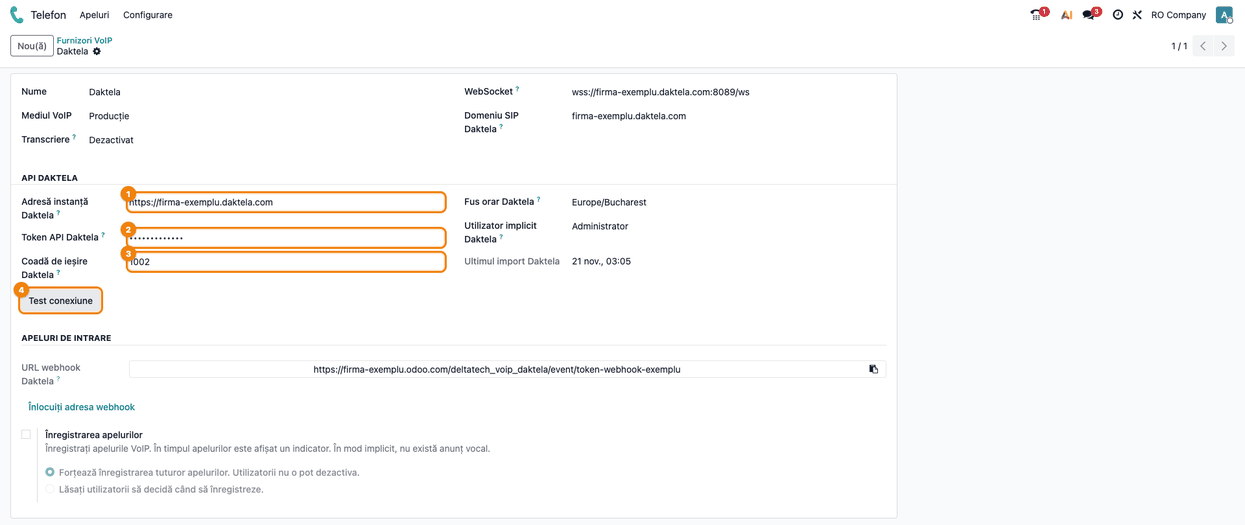
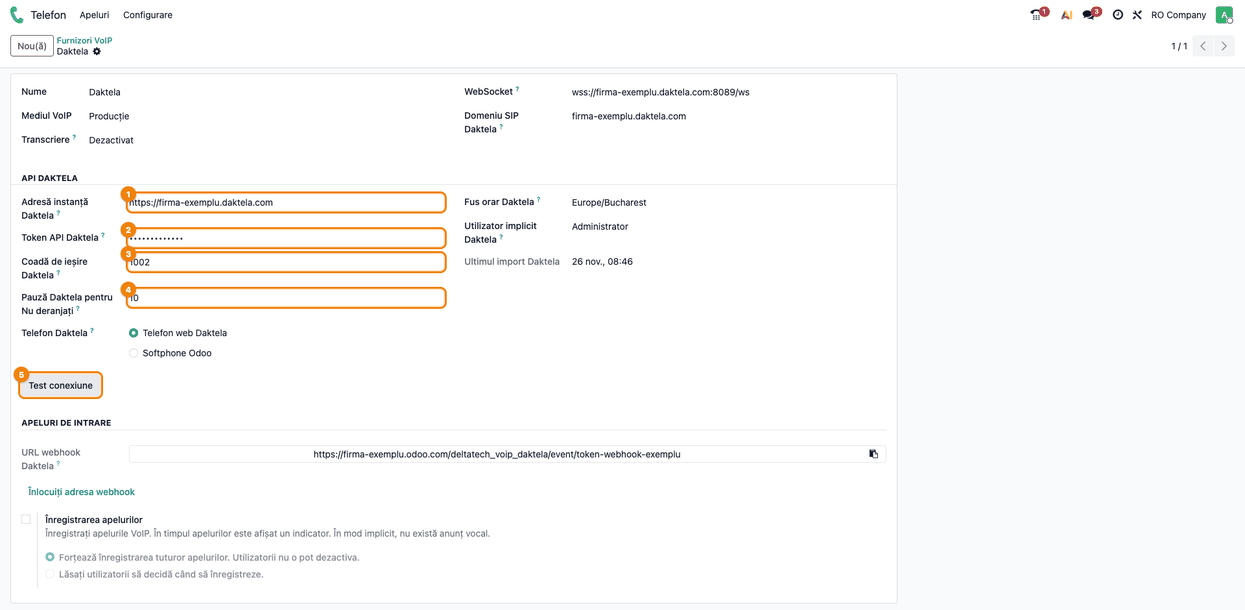
[UPD] wiki: deltatech_voip_daktela 19.0.1.10.0
Assisted-by: Claude Opus 5.5

diff --git a/deltatech_voip_daktela/index.md b/deltatech_voip_daktela/index.md
@@ -1,26 +1,31 @@
 # Phone - Daktela (localizat la `deltatech_voip_daktela/index.md`)
 
 - **Nume Tehnic:** `deltatech_voip_daktela`
-- **Versiune:** `19.0.1.9.0`
+- **Versiune:** `19.0.1.10.0`
 - **Cale:** https://github.com/terrabit-solutions/bitshop_ent/tree/19.0/deltatech_voip_daktela
 - **Cale Locală:** `odoo-addons/bitshop_ent/deltatech_voip_daktela`
-- **Ultima Ingestie:** `2026-11-19`
+- **Ultima Ingestie:** `2026-11-26`
 - **Fișă Consultant:** [FISA_CONSULTANT.md](FISA_CONSULTANT.md)
 
 #### 1. Sumar
 
-Modulul conectează aplicația Telefon (VoIP) din Odoo cu Daktela, centrul de contact în cloud. Utilizatorii pot apela orice număr de telefon din Odoo prin telefonul lor Daktela, iar apelurile încheiate în Daktela apar automat în istoricul de apeluri din Odoo, asociate contactului și utilizatorului potrivit.
+Modulul conectează aplicația Telefon (VoIP) din Odoo cu Daktela, centrul de contact în cloud. Utilizatorii pot apela orice număr de telefon din Odoo prin telefonul lor Daktela, văd apelul în widgetul Telefon (inclusiv apelurile primite și cele aflate în așteptare în coadă), iar apelurile încheiate în Daktela apar automat în istoricul de apeluri din Odoo, asociate contactului și utilizatorului potrivit. Funcția „Nu deranjați” din Odoo oprește și sunatul în Daktela.
 
 #### 2. Funcționalități Cheie
 
 - **Domeniu SIP Daktela:** câmpul PBX al furnizorului VoIP este denumit *Domeniu SIP Daktela*, în lista și în formularul furnizorului (*Telefon > Configurare > Furnizori*).
-- **Apel prin Daktela:** pentru utilizatorii legați de un agent Daktela, *Sună* de lângă orice număr de telefon sau mobil din Odoo (inclusiv contactele, activitățile și istoricul din Telefon) cere Daktela să apeleze numărul, în format internațional, de pe telefonul Daktela al utilizatorului. Apelul este inițiat de Daktela, iar softphone-ul Odoo nu mai este pornit pentru acești utilizatori (fără *Apel demo* sau erori SIP).
+- **Apel prin Daktela:** pentru utilizatorii legați de un agent Daktela, *Sună* de lângă orice număr de telefon sau mobil din Odoo (inclusiv tastatura Telefon, contactele, activitățile și istoricul) cere Daktela să apeleze numărul, în format internațional, de pe telefonul Daktela al utilizatorului. Apelul este inițiat de Daktela, iar partea SIP a softphone-ului Odoo nu este pornită pentru acești utilizatori.
+- **Telefon web Daktela sau softphone Odoo:** furnizorul alege cine transportă sunetul. Cu *Telefonul web Daktela* (implicit), apelurile merg prin API-ul Daktela. Cu *Softphone Odoo*, softphone-ul Telefon se înregistrează în Daktela ca dispozitiv WebRTC al agentului, cu datele SIP sincronizate din Daktela (butonul *Sincronizează telefoanele Daktela*), și funcționează ca la orice furnizor SIP. Această variantă nu este documentată oficial de Daktela.
+- **Apeluri primite în widget:** cu webhook-ul Daktela configurat (adresă cu token secret, generată pe furnizor și setată în Daktela), un apel primit sună în widgetul Telefon cu contactul găsit după număr, cu *Acceptă* și *Respinge*, fără sonerie Odoo. Un apel preluat în telefonul Daktela apare ca „în convorbire”, iar unul nepreluat apare imediat ca *Apel ratat* în istoric.
+- **Apeluri Daktela în widget:** widgetul arată apelul cu cartea de vizită a contactului: *Apel ieșit* până răspunde cealaltă parte, apoi *În convorbire* cu cronometru, citit din Daktela la 2 secunde cât durează apelul. Butonul roșu închide apelul în Daktela, iar un apel închis în Daktela se închide singur și în widget. Transferul, reținerea, înregistrarea, mut și tastatura sunt dezactivate pe durata unui apel Daktela. Butonul *Deschide telefonul Daktela* (căști) din antet deschide telefonul web Daktela.
+- **„Nu deranjați” oprește și Daktela (nou în 19.0.1.10.0):** pentru agenții Daktela, *Nu deranjați* din widgetul Telefon (pe o durată sau până la reactivare) pune agentul pe pauza Daktela configurată pe furnizor (*Pauză Daktela pentru Nu deranjați*, câmpul `daktela_dnd_pause`) sau pe *Nepregătit*; Daktela nu mai sună agentul, iar apelanții așteaptă în coadă. *Disponibil* sau expirarea duratei readuce agentul. Expirarea este verificată de un cron la un minut.
+- **Fila „În așteptare” (nou în 19.0.1.10.0):** listează apelurile care așteaptă în cozile Daktela, cu contactul găsit după număr, coada și timpul de așteptare; *Acceptă* dă apelul agentului.
 - **Indicații pentru operator:** când Daktela refuză apelul (telefon neconectat, operator care nu e pregătit), Odoo spune ce trebuie făcut (deschide clientul WebRTC, pornește aplicația SIP, intră în coada de ieșire, setează starea *Gata*), urmat de motivul dat de Daktela.
-- **Istoric de apeluri:** la fiecare 10 minute, apelurile încheiate în Daktela sunt importate în istoricul Telefon, o singură dată fiecare, la ora reală a apelului, cu direcție, stare, durată, contact (potrivit după număr) și utilizator (potrivit după agentul Daktela). Apelurile interne sunt omise. Cele primite și nepreluate apar ca *Apel ratat*, cele ieșite și nepreluate ca *Apel anulat*.
-- **Conexiune API per furnizor:** grupul *API Daktela* din formularul furnizorului conține adresa instanței, tokenul API, fusul orar al orelor apelurilor (implicit Europe/Bucharest), coada de ieșire opțională și utilizatorul implicit; este vizibil doar administratorilor. Butonul *Testează conexiunea* verifică tokenul și arată utilizatorul Daktela al acestuia.
+- **Istoric de apeluri:** la fiecare 10 minute, apelurile încheiate în Daktela sunt importate în istoricul Telefon, o singură dată fiecare, cu direcție, stare (răspuns, ratat, nepreluat), durată, contact (potrivit după număr) și utilizator (potrivit după agentul Daktela). Apelurile interne sunt omise. Apelul inițiat din Odoo apare imediat în istoric, iar importul îl completează cu orele Daktela.
+- **Conexiune API per furnizor:** grupul *API Daktela* din formularul furnizorului conține adresa instanței, tokenul API, fusul orar al orelor apelurilor (implicit Europe/Bucharest), coada de ieșire opțională, pauza pentru *Nu deranjați* și utilizatorul implicit; este vizibil doar administratorilor. Butonul *Testează conexiunea* verifică tokenul.
 - **Apeluri fără agent:** Telefon arată fiecare utilizator doar apelurile proprii, de aceea apelurile importate fără agent cunoscut (ex. apeluri ratate din coadă) sunt atribuite utilizatorului implicit.
-- **Furnizor implicit:** după configurarea furnizorului Daktela, acesta devine furnizorul implicit al utilizatorilor noi și al celor fără furnizor, deci Telefon nu mai rulează în *Mod demo*; un utilizator fără agent Daktela care sună primește mesajul să fie legat de un agent.
-- **Setări Daktela per utilizator** (tabul VoIP): *Agent Daktela* (numele unic din Daktela, setat doar de administrator, legat de cel mult un utilizator); *Dispozitiv Daktela* opțional (dispozitiv SIP sau număr extern, cu tipul său), pe care Odoo conectează agentul, în coada de ieșire și în starea *Gata* înainte de fiecare apel; *Coadă de ieșire Daktela* opțională, pentru agenții care sună printr-o altă coadă decât cea a furnizorului; *Utilizator autentificare Daktela*, editabil de utilizator în preferințe, folosit de softphone în locul numelui SIP când Daktela oferă unul separat.
+- **Furnizor implicit:** după configurarea furnizorului Daktela, acesta devine furnizorul implicit al utilizatorilor noi și al celor fără furnizor, deci Telefon nu mai rulează în *Mod demo*.
+- **Setări Daktela per utilizator** (tabul VoIP): *Agent Daktela* (numele unic din Daktela, setat doar de administrator, legat de cel mult un utilizator); *Dispozitiv Daktela* opțional (dispozitiv SIP sau număr extern, cu tipul său), pe care Odoo conectează agentul, în coada de ieșire și în starea *Gata* înainte de fiecare apel; *Coadă de ieșire Daktela* opțională; *Utilizator autentificare Daktela*, editabil de utilizator în preferințe, folosit de softphone în locul numelui SIP când Daktela oferă unul separat.
 - Fluxul de configurare pas cu pas, cu capturi, este în fișa consultantului.
 
 #### 3. Dependențe
@@ -31,21 +36,24 @@ Modulul conectează aplicația Telefon (VoIP) din Odoo cu Daktela, centrul de co
 
 **Modele**
 
-- `voip.provider` (extins): câmpurile API Daktela, cererile către API, testul conexiunii, autentificarea agentului și importul apelurilor (`_cron_daktela_import_calls`).
+- `voip.provider` (extins): câmpurile API Daktela (`daktela_url`, `daktela_api_token`, `daktela_phone`, `daktela_dnd_pause`, token și adresă webhook), cererile către API, testul conexiunii, sincronizarea telefoanelor, apelurile în așteptare și importul apelurilor (`_cron_daktela_import_calls`).
 - `voip.call` (extins): `daktela_click_to_call`, crearea apelurilor din datele Daktela (câmpul `daktela_id`), potrivirea agentului și a contactului.
-- `res.users` / `res.users.settings` (extinse): agentul, dispozitivul, coada și utilizatorul de autentificare Daktela; furnizor implicit.
+- `res.users` / `res.users.settings` (extinse): agentul, dispozitivul, coada și utilizatorul de autentificare Daktela; furnizor implicit; `daktela_dnd_paused` și logica pauzei la schimbarea *Nu deranjați* (`_cron_daktela_end_dnd`).
 
 **Vizualizări**
 
 - `voip_provider_tree_view_inherit_daktela`: coloana *Domeniu SIP Daktela* în lista furnizorilor.
-- `voip_provider_view_form_inherit_daktela`: grupul *API Daktela* și butonul de test în formularul furnizorului.
+- `voip_provider_view_form_inherit_daktela`: grupul *API Daktela*, webhook-ul și butoanele de test/sincronizare în formularul furnizorului.
 - `daktela_res_user_form`, `daktela_res_users_view_form_preferences`: câmpurile Daktela în tabul VoIP al utilizatorului și în preferințe (doar *Utilizator autentificare* editabil).
-- Patch-uri JS (`daktela_click_to_call.esm.js`, `voip_service_patch.esm.js`) peste serviciile `Voip` și `UserAgent` din Telefon, care redirecționează apelul prin Daktela.
+- Patch-uri JS (`daktela_click_to_call.esm.js`, `daktela_go_ready.esm.js`, `daktela_waiting.esm.js`, `voip_service_patch.esm.js`) și șabloane (`softphone.xml`, `daktela_waiting.xml`) peste widgetul Telefon: apel prin Daktela, starea apelului, fila *În așteptare*.
+- Controller `DaktelaWebhook` (`controllers/main.py`): primește evenimentele de apel de la Daktela.
 
 **Acțiuni Automate / Acțiuni Server**
 
 - `ir_cron_daktela_import_calls`: la fiecare 10 minute importă apelurile încheiate din Daktela în istoricul Telefon.
+- `ir_cron_daktela_end_dnd`: la fiecare minut încheie pauza Daktela a agenților al căror *Nu deranjați* a expirat.
 
 #### 5. Conexiuni
 
 - `voip`: aplicația Telefon (Enterprise) ale cărei furnizori, apeluri și softphone sunt extinse (dependență directă).
+- [deltatech_voip_missed_call](../deltatech_voip_missed_call/index.md): complementar, fără dependență în cod; apelurile primite și nepreluate importate din Daktela apar ca *Apel ratat* în istoricul Telefon, de unde lista de apeluri de sunat înapoi le poate prelua.

diff --git a/deltatech_voip_daktela/FISA_CONSULTANT.md b/deltatech_voip_daktela/FISA_CONSULTANT.md
@@ -53,7 +53,7 @@ Mergeți la **Telefon → Configurare → Furnizori**. Lista **Furnizori VoIP** 
 
 Deschideți furnizorul Daktela. Sus sunt **WebSocket** și **Domeniu SIP Daktela**, pentru softphone. Dedesubt, grupul **API Daktela** are adresa instanței, tokenul (ascuns), coada de ieșire, butonul **Test conexiune**, fusul orar, utilizatorul implicit și data ultimului import. Grupul îl văd doar administratorii.
 
-**Fus orar Daktela** este fusul instanței Daktela (implicit Europe/Bucharest): Daktela trimite orele apelurilor în acest fus, fără decalaj. **Coadă de ieșire Daktela** este opțională: numele cozii de apeluri ieșiri din Daktela (de exemplu 1002), în care agentul trebuie să fie logat.
+**Fus orar Daktela** este fusul instanței Daktela (implicit Europe/Bucharest): Daktela trimite orele apelurilor în acest fus, fără decalaj. **Pauză Daktela pentru Nu deranjați** este numele unic al pauzei Daktela (de exemplu 10) pe care e pus agentul când alege **Nu deranjați** în widget (pasul 9); gol, agentul e trecut pe Indisponibil. **Coadă de ieșire Daktela** este opțională: numele cozii de apeluri ieșiri din Daktela (de exemplu 1002), în care agentul trebuie să fie logat.
 
 După ce ați completat adresa și tokenul și ați salvat, apăsați **Test conexiune**. Butonul apare doar când adresa și tokenul sunt completate. Dacă tokenul e bun, apare mesajul „Conectat la Daktela ca …” cu numele utilizatorului Daktela al tokenului; altfel apare o eroare (vezi secțiunea 9).
 
@@ -110,6 +110,18 @@ Mergeți la **Telefon → Apeluri**. Un apel pornit din Odoo apare aici imediat,
 
 ![Lista Apeluri din aplicația Telefon cu trei apeluri importate din Daktela: un apel ieșit către Client Exemplu SRL de 3 minute și 5 secunde cu starea Apeluri efectuate, un apel intrat ratat de la +40731222333 atribuit utilizatorului implicit și un apel ieșit anulat](screenshots/08_istoric_apeluri.png)
 
+### Pasul 9 — Opriți soneria cu Nu deranjați
+
+În antetul widgetului **Telefon**, comutatorul standard **Disponibil / Nu deranjați** lucrează și în Daktela pentru agenții Daktela. **Nu deranjați** (15 minute, o oră, 3 ore, 8 ore, 24 de ore sau **Până când îl pornesc din nou**) oprește soneria Odoo, ca în standard, și pune agentul pe pauza din **Pauză Daktela pentru Nu deranjați** de pe furnizor (fără pauză completată: îl trece pe Indisponibil). Daktela nu mai sună agentul cu apelurile din coadă; clienții așteaptă în coadă și apar în fila **În așteptare**. **Disponibil** încheie pauza (sau îl trece înapoi pe Ready); la expirarea duratei alese, Odoo încheie singur pauza, în cel mult un minut. Odoo anulează doar ce a făcut el: un agent aflat deja pe o pauză proprie în Daktela rămâne pe ea. Dacă Daktela refuză schimbarea, **Nu deranjați** se păstrează în Odoo și utilizatorul primește un avertisment cu motivul dat de Daktela.
+
+![Widgetul Telefon cu butonul Disponibil marcat și meniul deschis: Disponibil și Nu deranjați, cu nota Apelurile primite vor fi mutate; jos, filele widgetului, între care noua filă În așteptare](screenshots/09_widget_nu_deranjati.png)
+
+### Pasul 10 — Preluați manual un apel din așteptare
+
+Deschideți fila **În așteptare** a widgetului. Lista arată apelurile care așteaptă în toate cozile Daktela ale instanței (nu doar în cozile agentului), cel mai vechi primul: contactul găsit după număr (sau numărul), numărul, coada și timpul de așteptare; se actualizează la fiecare 10 secunde cât timp fila e deschisă. **Preia** dă apelul agentului în Daktela: apelul sună în telefonul agentului (softphone-ul Odoo sau telefonul web Daktela) și se răspunde ca orice apel primit. Dacă între timp apelul a fost preluat de altcineva sau clientul a închis, apare mesajul „Acest apel nu mai e în așteptare.” Pentru a prelua apeluri care nu i-au fost oferite, agentul are nevoie în Daktela de dreptul de coadă **Call pickup** pe coada apelului; fără el, Daktela refuză preluarea și Odoo afișează motivul. Preluarea funcționează și pe **Nu deranjați**.
+
+![Fila În așteptare a widgetului Telefon cu două apeluri în coada Vânzări: Client Exemplu SRL (+40721000111) și numărul +40744999888, fiecare cu timpul de așteptare și butonul verde Preia, primul marcat](screenshots/10_widget_in_asteptare.png)
+
 ### Note de monografie și raportare
 
 Modulul nu generează note contabile. Istoricul apelurilor se poate filtra și grupa în **Telefon → Apeluri** (după utilizator, stare, direcție) și se poate vedea și în calendar, grafic sau pivot.
@@ -153,6 +165,10 @@ Modulul nu generează note contabile. Istoricul apelurilor se poate filtra și g
 - [ ] Un apel intrat pierdut, fără agent, apare la utilizatorul implicit.
 - [ ] Pe furnizor, **Ultimul import Daktela** se actualizează după import. Dacă apelurile nu apar și data nu se schimbă, importul a eșuat; cauza (token, adresă) e în logul serverului.
 - [ ] Un apel intern între agenți nu apare în istoric.
+- [ ] **Nu deranjați** pune agentul în Daktela pe pauza din **Pauză Daktela pentru Nu deranjați** (sau pe Indisponibil, fără pauză pe furnizor); **Disponibil** îl readuce pe Ready.
+- [ ] Un **Nu deranjați** de 15 minute încheie singur pauza Daktela după expirare (cron la un minut).
+- [ ] Pe **Nu deranjați**, apelurile din coadă nu mai sună la agent și apar în fila **În așteptare**.
+- [ ] **Preia** pe un apel din **În așteptare** sună în telefonul agentului; un apel preluat între timp de altcineva dă „Acest apel nu mai e în așteptare.”
 
 ## 9. Mesaje de eroare frecvente
 
@@ -177,6 +193,8 @@ Modulul nu generează note contabile. Istoricul apelurilor se poate filtra și g
 | Acest apel Daktela aparține altui agent. | Activitatea Daktela a apelului nu e a agentului utilizatorului (de exemplu **Agent Daktela** greșit pe utilizator) | Verificați **Agent Daktela** pe utilizator; un agent nu poate urmări sau închide apelurile altui agent |
 | Acest apel aparține altui utilizator. | Un utilizator încearcă să urmărească sau să închidă apelul altui utilizator | Fiecare agent își închide propriile apeluri, din widgetul lui |
 | Forbidden (HTTP 403, în jurnalul de evenimente Daktela) | Daktela trimite evenimentele la o adresă webhook cu token greșit sau înlocuit (adresa veche, după **Înlocuiți adresa webhook**); apelurile de intrare nu mai apar în widget | Copiați **URL webhook Daktela** de pe furnizor și setați-l din nou în Daktela la **Manage → Settings → Events** |
+| Acest apel nu mai e în așteptare. | Alt agent a preluat apelul sau clientul a închis între timp | Lista se actualizează singură; alegeți alt apel |
+| Avertisment Daktela la Nu deranjați (motivul Daktela) | Daktela a refuzat pauza (pauză inexistentă în **Pauză Daktela pentru Nu deranjați**, agent într-un apel) | Verificați numele pauzei pe furnizor; Nu deranjați rămâne activ în Odoo, dar Daktela continuă să sune |
 | Daktela nu a răspuns cu JSON. | Adresa duce la o pagină care nu e API-ul Daktela (proxy, mentenanță, adresă greșită) | Verificați **Adresă instanță Daktela**; importul celorlalți furnizori continuă |
 
 ## 10. Capturi de ecran
@@ -195,6 +213,8 @@ Capturile sunt generate automat din `tests/test_screenshots.py` (mixinul `Screen
 - `06_widget_apel_incheiat.png`: widgetul Telefon după închiderea apelului, cu rezumatul.
 - `07_widget_apel_intrare.png`: widgetul Telefon cu un apel primit: Apel primit, fișa contactului și butoanele Respinge și Acceptă.
 - `08_istoric_apeluri.png`: lista Apeluri, cu apelurile importate din Daktela.
+- `09_widget_nu_deranjati.png`: meniul Disponibil / Nu deranjați al widgetului (pasul 9).
+- `10_widget_in_asteptare.png`: fila În așteptare, cu apelurile din coadă și butonul Preia (pasul 10).
 
 Capturile widgetului se fac cu răspunsurile Daktela simulate în test (apel pornit, apoi răspuns), fără un apel real.
 

diff --git a/log.md b/log.md
@@ -4,6 +4,18 @@ This is an append-only log of all operations performed on the wiki.
 
 ---
 
+## [2026-11-26] `deltatech_voip_daktela` — reingestie 19.0.1.9.0 → 19.0.1.10.0
+
+- **Acțiune:** Pagina regenerată din ramura `19.0-imp-voip-daktela-pause` (terrabit-solutions/bitshop_ent#783, în
+  review): „Nu deranjați” din widgetul Telefon pune agentul pe pauza Daktela de pe furnizor (`daktela_dnd_pause`, cron
+  la un minut pentru expirare), fila „În așteptare” cu preluarea apelurilor din coadă. Completate și funcțiile deja
+  existente lipsă din pagina veche (telefon web Daktela / softphone Odoo, webhook pentru apeluri primite, apelurile în
+  widget). Fișa consultant recopiată cu 10 capturi (noi: 09, 10; 02 regenerată); șterse capturile vechi nereferite.
+- **Sursă:** `readme/DESCRIPTION.md`, `readme/USAGE.md`, `readme/FISA_CONSULTANT.md`, `__manifest__.py`, verificare în cod.
+- **Dependențe/Conexiuni:** `voip` (fără pagină, text); conexiune funcțională cu
+  [deltatech_voip_missed_call](deltatech_voip_missed_call/index.md).
+- **Fișiere actualizate:** `deltatech_voip_daktela/` (index.md, FISA_CONSULTANT.md, screenshots/), `index.md`, `log.md`.
+
 ## [2026-11-26] `deltatech_voip_missed_call` — ingestie 19.0.1.0.0 (modul nou)
 
 - **Acțiune:** Pagină nouă pentru modulul nou din bitshop_ent (ramura `19.0-add-voip-missed-call`, PR în lucru): meniul
